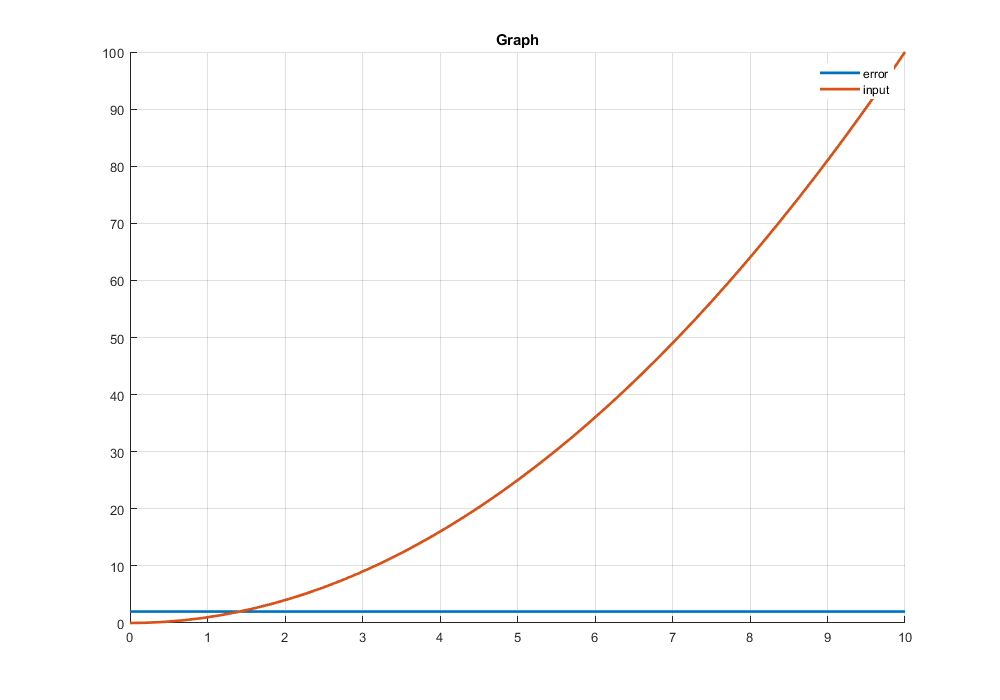
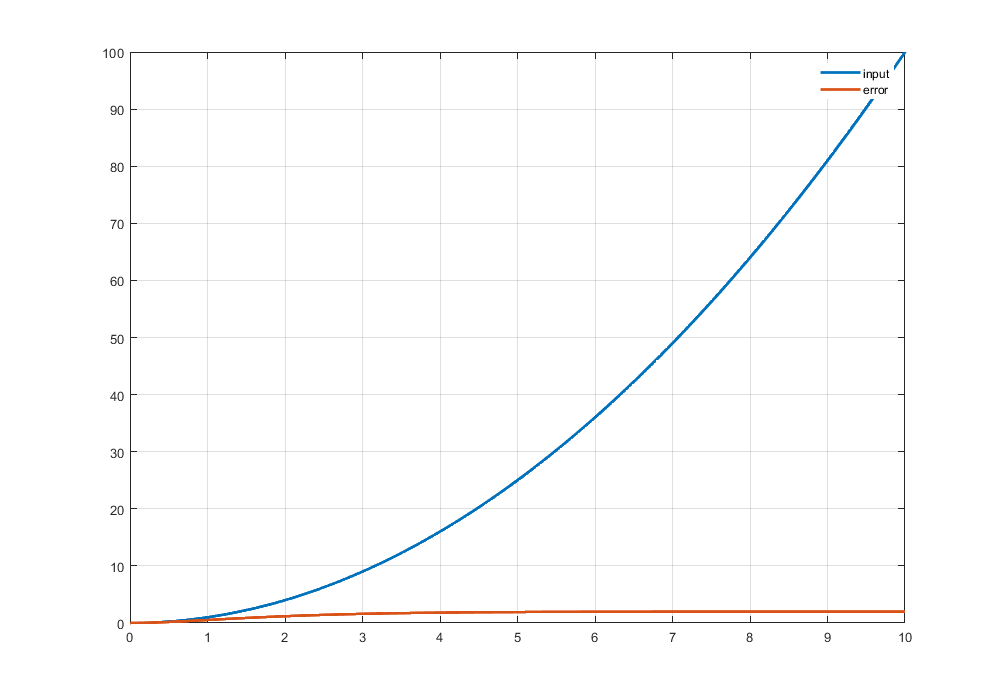
fix

diff --git a/Task3.m b/Task3.m
@@ -11,14 +11,15 @@ calculate(alpha, q*alpha, 200, g);
 
 
 function calculate(alpha, q, shift_, g)
+    t = (0:0.01:10)';
     W_yg = (q^2*18*alpha+3*q^2+3*q+1)/(q+1)^3;
-    [y,t] = step(W_yg, 10);
+    [y,t] = step(W_yg, t);
     step_info = stepinfo(W_yg,'SettlingTimeThreshold', 0.05);
     tau_r = step_info.SettlingTime
     t_r = alpha * tau_r
 
     W = 1/(q+1)^3;
-    [y_table,t] = step(W, 10);
+    [y_table,t] = step(W, t);
     step_info_table = stepinfo(W,'SettlingTimeThreshold', 0.05);
     tau_r_table = step_info_table.SettlingTime
     t_r_table = alpha * tau_r_table
